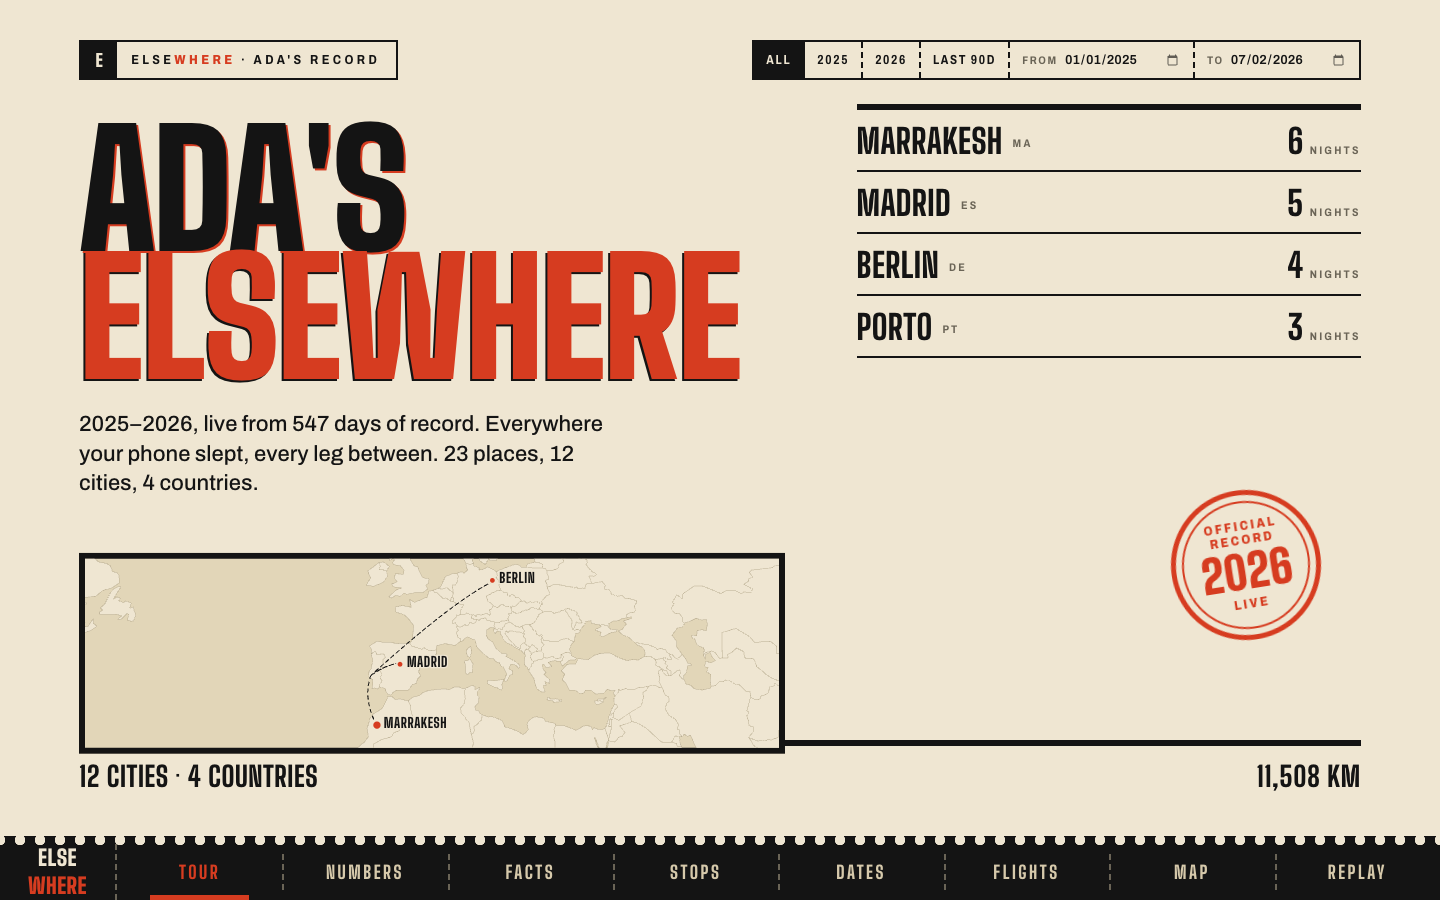
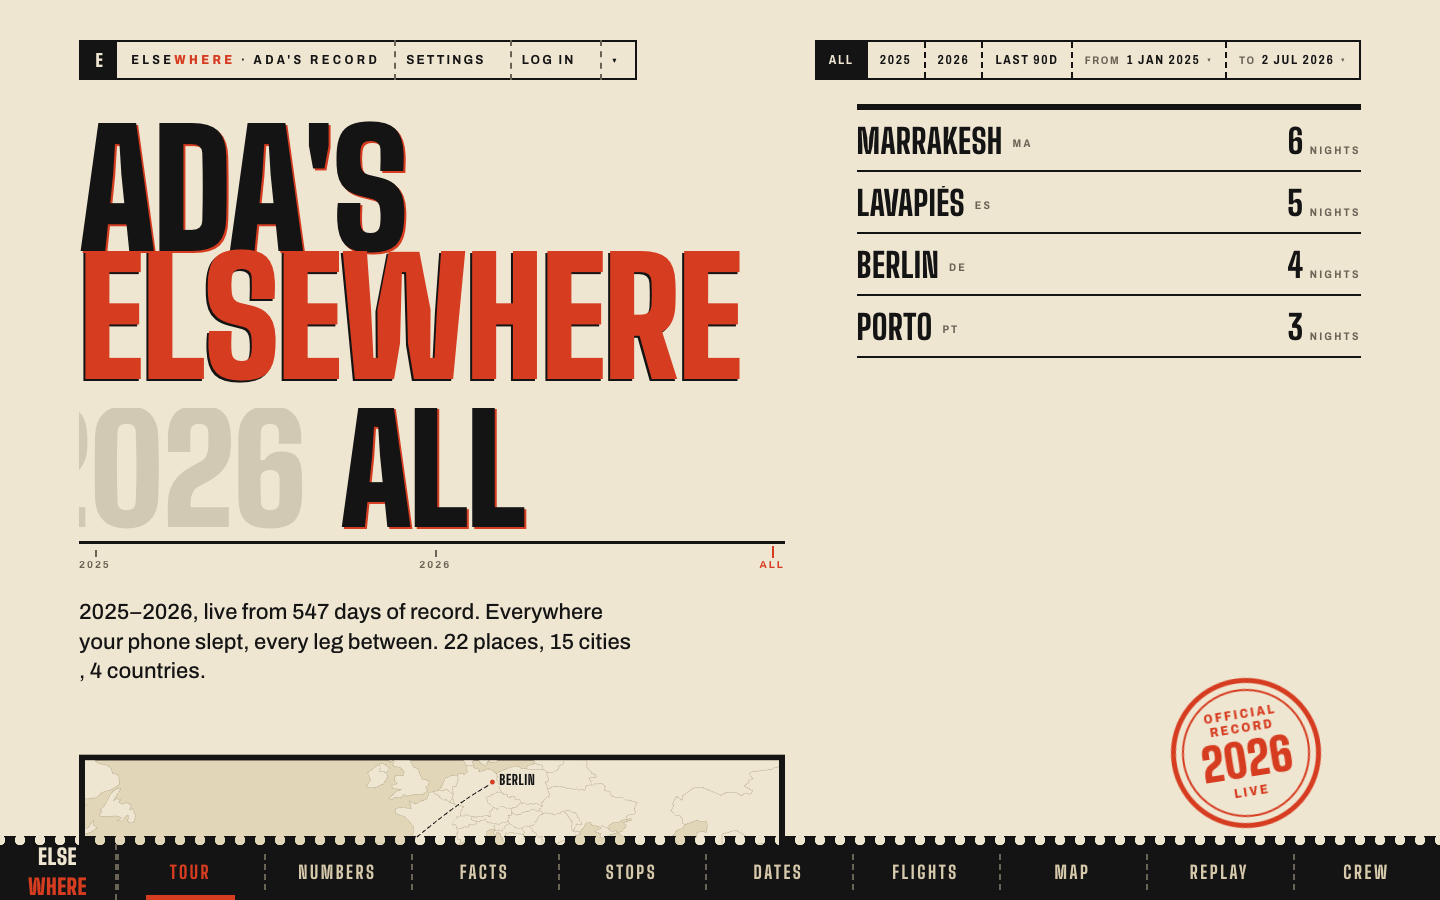
Explain Crew and Sonar step by step and refresh the screenshots

diff --git a/README.md b/README.md
@@ -1,10 +1,11 @@
 <h1 align="center">Elsewhere</h1>
 <p align="center"><strong>Your Google Maps Timeline, printed as a world-tour poster.</strong><br>
-Every city you slept in, every flight, every drive — replayed on a map. Runs entirely in your browser.</p>
+Every city you slept in, every flight, every drive — replayed on a map. Runs in your browser, or records as you go on Android.</p>
 
 <p align="center">
 <a href="#quick-start">Quick start</a> ·
 <a href="#what-you-get">What you get</a> ·
+<a href="#crew-and-sonar-step-by-step">Crew & Sonar</a> ·
 <a href="#your-data-and-what-it-costs">Privacy & cost</a> ·
 <a href="#deploy-your-own">Deploy</a> ·
 <a href="#android">Android</a> ·
@@ -55,51 +56,66 @@ Everything can be changed later from the ▾ menu by the masthead, which also st
 | **Tour** | Your years as one poster: cities ranked by nights slept, places, countries, a dotted route map. |
 | **Numbers** | Distance by month and mode, best month, the long-run averages. |
 | **Facts** | Eighteen things your record says about you, each with a figure, plus a turning card of shorter, ruder ones. |
-| **Stops** | The places you keep going back to, with photos and names. |
-| **Dates** | A calendar of where you were, night by night. |
+| **Stops** | The places you keep going back to, with photos, names and street addresses. |
+| **Dates** | A calendar of where you were, night by night, with a ticket per trip and the mode of every leg. |
 | **Flights** | A globe turned to show every route, airports labelled, distance totalled; pick an airport to see where it took you. |
 | **Map** | Every stop pinned, clustered as you zoom out, filtered by category, searchable, sized by visits or hours. |
 | **Replay** | Press play and move through time. Planes, cars, trains and walks each get their own colour and marker; the camera frames each leg whole. |
+| **Crew** | Friends who can see your city, and Sonar — see [Crew and Sonar, step by step](#crew-and-sonar-step-by-step). |
 
 Pick any range — a year, the last 90 days, two dates from the calendar — and every tab updates. Each card saves as a PNG, framed for a story or a post.
 
-## What's new in v2 (preview)
+## What's new in v3
 
-v2 is being built on the `v2` branch and published as a preview at **https://vsvinav.github.io/elsewhere/v2/** (the root URL stays on v1). Android gets a matching APK per release, tagged `v2.0.0-alpha.N`. Where to find each addition:
+v3 lives on the `v3` branch and is published at **https://vsvinav.github.io/elsewhere/v3/**. Android gets a matching APK per release, tagged `v3.0.0-alpha.N`, from [vsvinav/elsewhere-android](https://github.com/vsvinav/elsewhere-android/releases). Both clients share every feature and the same poster; the one deliberate difference is that the browser has no recorder, so it *views* Crew and Sonar while the phone *publishes*.
 
 | Feature | What it does | Web | Android |
 | --- | --- | --- | --- |
-| **Year wheel** | Spin a dial of years to re-range the whole record. | Tour, under the headline. | Tour hero. |
-| **Highlights** | A full-width "On this day" card: where you were on today's date in earlier years. | Facts, at the top. | Facts, at the top. |
-| **Fun Facts hero** | The rotating deck of shorter, ruder facts, with ←/→, Shuffle and kind chips. | Facts, below Highlights. | Facts — swipe the deck. |
-| **Play strip** | Five small games off your record (streaks, records, "earlier this year"…). | Facts, the PLAY strip. | Facts, the PLAY strip. |
-| **Passport** | Stamps per country, printed as a passport page. | Facts, bottom of the page (the deck's "Passport" card jumps there). | Facts, bottom. |
-| **Doors** | Tap any month or figure to open the Dates behind it; the back button returns you. | Numbers → month bars and *door to door*; Dates. | Same. |
-| **Trip deck** | Each trip as a card you can open, swipe and share. | Dates. | Dates. |
-| **Heat** | A density layer of where you go most. | Map → **HEAT** chip. | Map → **HEAT** chip. |
-| **Live now** | Your current position and a pulsing stamp while recording. | — (no recorder in the browser) | Map → **LIVE** chip while *Record on this phone* is running. |
-| **Snap a place** | Attach a photo to a stop; it shows on the stop's card. | Stops → open a stop → **Snap**. | Stops → open a stop → **SNAP** stamp. |
-| **Globe share** | Share the Flights globe as a card. | Flights → Save. | Flights → Save. |
-| **Settings** | One page for keys, units, Ask Elsewhere, Crew relay, and clearing data. | **Settings** chip by the masthead, or ▾ → Settings (`#settings`). | ▾ (the **E**) → Settings. |
-| **Crew** | Pair with friends by code or QR; opt in per friend to *Live · city*, *Live · precise* and *Sonar*. | ▾ → **Crew** (`#crew`). Friends' stamps appear on the Map. | ▾ → **Crew**; Map → **Share** to broadcast while recording. |
-| **Sonar** | Pings you both when you and a friend are within a mile and neither of you is usually there. | Rings and a tone on the Map. | Rings on the Map and a notification. |
-| **Accounts** | Sign up with an email code; a passphrase-sealed vault carries your profile and Crew identity to a new device. The record itself never leaves the device. | Welcome screen on first open; **Settings → Account**. | Welcome screen on first open; Settings → Account. |
+| **Record on this phone** | Keep the record going from today without another export: the phone logs stays and legs itself, in the background. | — (import an export instead) | Settings → **Record on this phone**; the Map shows a pulsing stamp while live. |
+| **Commute modes** | Every leg is named by how you travelled — Walk, Cycle, Car, Bus, Train, Metro, Tram, Ferry, Flight — and a long gap over a long distance becomes a flight. When the phone isn't sure, Dates asks *How did you get there?* with one-tap chips. | Numbers, Dates, Replay read the modes. | Same, plus the chips in Dates for recorded legs. |
+| **Streets on Stops** | Each stop carries its street address under the name, from Google Places when you have a key and OpenStreetMap otherwise. Home and Work keep their labels. | Stops. | Stops. |
+| **Crew tab** | Friends on the ticket, not in a menu. A passport-photo card per friend with their last city and a red dot while live; the tab itself gets a dot when anyone is. | **CREW** on the ticket (`#crew`). | **CREW** on the ticket. |
+| **Sonar** | Pings you both when you and a friend are within a mile and neither of you is usually there. A sheet opens — *Marta is within a mile* — with **Snap a photo together**. | Rings, a tone, and the sheet. | Rings, a notification, and the sheet. |
+| **Sonar rehearsal** | A switch for showing people: pings fire on nearness alone, even at home, for a day. | Settings → **Sonar rehearsal**. | Settings → **Sonar rehearsal**. |
+| **Accounts & sync** | Sign up with an email code or Google; a passphrase-sealed vault carries your profile, settings and Crew identity to a new device, and the record itself stays in step across your devices. | Welcome screen; Settings → Account. | Same. |
+| **Year wheel, Highlights, Passport, Play strip, Trip deck, Heat, Snap a place, Globe share** | Carried over from v2, all still here. | Tour · Facts · Dates · Map · Stops · Flights. | Same tabs. |
 
-### Setting up Crew and Sonar
+<p align="center">
+<img src="docs/screenshots/crew.png" width="800" alt="Crew: your share code, a slot for a friend's, and a card per friend">
+</p>
 
-Crew needs a relay — a tiny Cloudflare Worker in [`relay/`](relay/) that holds device ids and **encrypted** pings only (it can't read locations). Deploy it once on the free tier:
+### Crew and Sonar, step by step
 
-```bash
-cd relay && npm ci && npx wrangler login && npx wrangler deploy   # prints https://….workers.dev
-```
+Crew needs a relay — a tiny Cloudflare Worker in [`relay/`](relay/) that holds device ids and **encrypted** pings only; it cannot read anyone's location. The published builds already point at one, so the steps below work out of the box. (To run your own: `cd relay && npm ci && npx wrangler login && npx wrangler deploy`, then paste the printed URL into **Settings → Relay URL** on every device. Leaving the field empty uses the default; clearing it also fixes a stale URL from an older build.)
 
-Paste that URL into **Settings → Crew → Relay URL** on every device, then:
+**1. Pair two devices.**
+1. On the first device open the **CREW** tab. Under *Your share code* you'll see a code like `PT-LIS-7Q4K` (Android can also **Show QR**). It lasts a day; **New code** mints another.
+2. On the second device open **CREW**, type that code under *Enter a friend's code* (or **Scan** the QR on Android) and tap **Pair**.
+3. Both devices show *Pair with …?* with an 8-character fingerprint. Check the two fingerprints match, then **Confirm** on both.
+4. The friend appears as a card. Pairing turns on *Live · city* and *Sonar* for them straight away; *Live · precise* stays off until you switch it on.
 
-1. **Pair.** On one device open Crew and read the code (`PT-XXX-XXXX`; Android can also show a QR). On the other, type it under *Enter a friend's code* (or scan). Both see "Pair with *name*?" with an 8-character fingerprint — check they match, then confirm.
-2. **Share.** Toggle *Live · city* or *Live · precise* for that friend. Android broadcasts while **Record on this phone** is running (Map → **Share**); the browser only receives, since it has no recorder.
-3. **Sonar.** Toggle *Sonar* for the friend (it also turns on *Live · city*). It fires only when you are both within a mile, both away from the places you usually are, after at least 14 days away, once per 24 hours — so two phones on the same desk at home will stay quiet by design.
+**2. Start publishing (Android).** Sonar and live cities ride on the recorder, so on each phone turn on **Settings → Record on this phone**. Nothing else is needed: while recording, the phone sends a coarse, encrypted ping to each friend who has Sonar on. For exact positions for a while, tap **Share location** on the Crew tab, pick the friends and a length; **Stop** ends it early.
 
-Leaving the Relay URL empty turns Crew off. Removing a friend tells their device to remove you too.
+**3. Choose what each friend gets.** Tap a card to open it:
+- *Live · city* — which city you're in, roughly where.
+- *Live · precise* — exact fixes, only during a share session.
+- *Sonar* — the within-a-mile ping (turns *Live · city* on with it).
+- **Mute Sonar for today**, **Test Sonar** (rings on both devices now, whatever the distance; nothing is recorded), **Remove** (tells their device to forget you too).
+
+**4. Hear Sonar.** Sonar is deliberately quiet in daily life: it fires only when you're both within a mile, neither of you is usually there (fewer than four days in that spot over the last month) and whoever arrived later hasn't been near it for a fortnight — then once a day per friend. Two phones on the same desk at home stay silent. When it fires, both devices ring and a sheet opens: *Marta is within a mile. Neither of you is usually here. Say hi?* Tap **Snap a photo together** to take a picture that's filed against the moment (it shows up on Stops), or **Dismiss**.
+
+**5. Show it off.** For a demo you don't want to wait for a chance meeting. On both phones turn on **Settings → Sonar rehearsal**: a red **REHEARSAL** tag appears on Crew, and for the next 24 hours pings fire whenever a paired friend is within a mile, even at home. Stand near each other with both phones recording and the sheet comes up within a minute or two. The switch turns itself off after a day.
+
+The browser follows along: open **CREW** on the web and you'll see the same friends, their last city, the live dot and Sonar's ring and sheet — it just never publishes a position of its own.
+
+<p align="center">
+<img src="docs/screenshots/android-crew.png" width="260" alt="Android Crew tab: four friend cards, a share banner, the share code and a slot for a friend's">
+<img src="docs/screenshots/android-sonar.png" width="260" alt="Android Sonar sheet: Marta is within a mile, Snap a photo together, Dismiss">
+<img src="docs/screenshots/android-modes.png" width="260" alt="Android Dates: a trip card asking How did you get there? with Car, Bus, Train, Metro and Other chips">
+</p>
+<p align="center">
+<img src="docs/screenshots/sonar.png" width="800" alt="Web: the Sonar sheet over the Crew tab — Marta is within a mile">
+</p>
 
 ### Running the account service
 
@@ -121,7 +137,11 @@ Paste that URL into **Settings → Account → Account service URL**. For local 
 </p>
 <p align="center">
 <img src="docs/screenshots/facts.png" width="400" alt="Facts: 4 of 195 countries, with a ring figure">
-<img src="docs/screenshots/stops.png" width="400" alt="Stops: the places you return to">
+<img src="docs/screenshots/stops.png" width="400" alt="Stops: the places you return to, each with its street">
+</p>
+<p align="center">
+<img src="docs/screenshots/numbers.png" width="400" alt="Numbers: distance by month, split by Flight, Train and Walk">
+<img src="docs/screenshots/map.png" width="400" alt="Map: every stop pinned and clustered">
 </p>
 
 Screenshots show the demo record: Ada, eighteen months in Lisbon with four trips out. Build it with `python3 scripts/make_sample.py --out web/public/data` (see [Pre-bake with Python](#optional-pre-bake-a-record-with-python)).
@@ -155,7 +175,7 @@ Host `dist/` on Netlify, Vercel, S3 — anything static. To ship a default key f
 
 ## Android
 
-A native Android app with the same tabs and the same poster is being built in its own repository: [vsvinav/elsewhere-android](https://github.com/vsvinav/elsewhere-android).
+A native Android app with the same tabs, the same poster and the same features lives in its own repository: [vsvinav/elsewhere-android](https://github.com/vsvinav/elsewhere-android). Grab the latest `elsewhere-v3.0.0-alpha.N.apk` from its [Releases](https://github.com/vsvinav/elsewhere-android/releases). It's also the only client that records: turn on **Settings → Record on this phone** and the record grows from today without another export.
 
 ## Optional: pre-bake a record with Python
 
